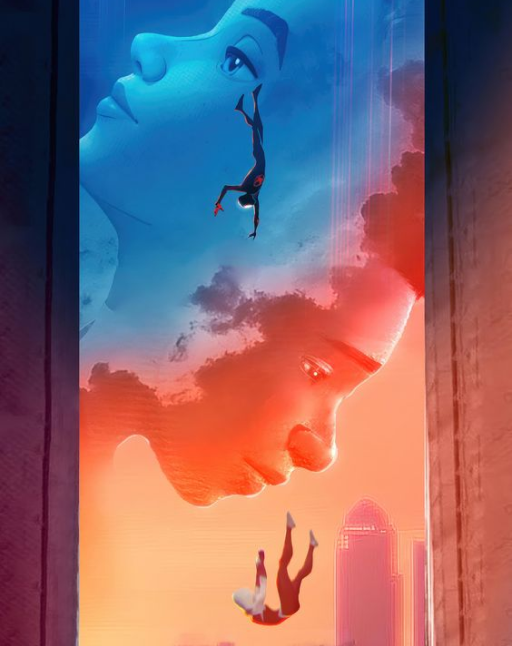
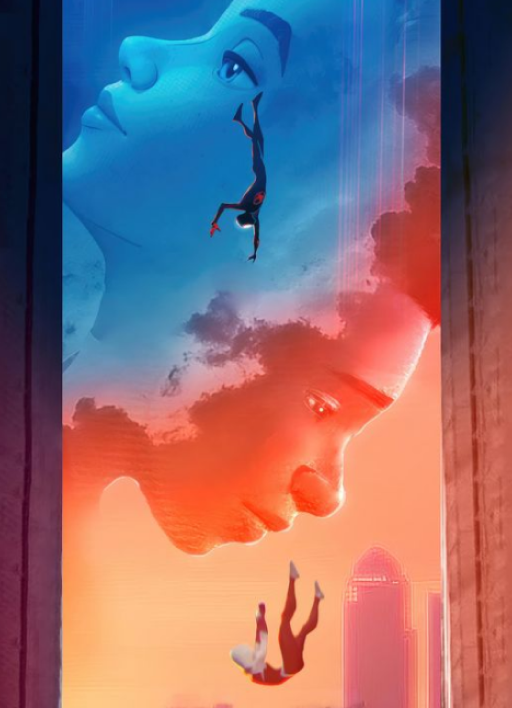
Add files via upload

diff --git a/Css/Estilo.css b/Css/Estilo.css
@@ -186,7 +186,7 @@ body {
   }
   .barra2 {
     width: 300px;
-    height: 647px;
+    height: 708px;
     margin-left: 724px;
     background-image: url(/Imagens/banner\ p\ 2.png);
     display: flex;
@@ -315,7 +315,7 @@ body {
   }
   .barra3 {
     width: 512px;
-    height: 646px;
+    height: 708px;
     margin-top:0px;
     background-image: url(/Imagens/banner\ p3.png);
   }
